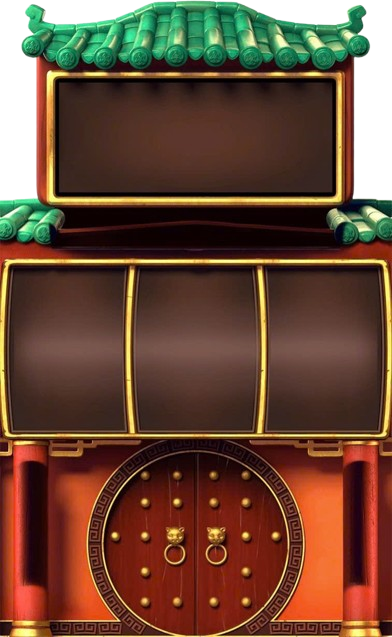
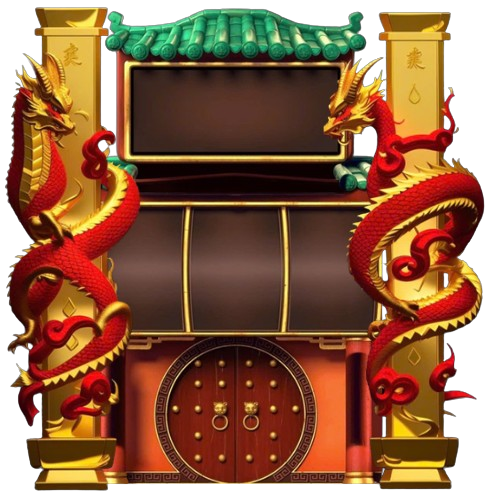
update css

diff --git a/user/pages/slot-machine/index.tsx b/user/pages/slot-machine/index.tsx
@@ -252,17 +252,17 @@ export default function SlotMachinePage() {
 
         .slot-bg-content {
           position: absolute;
-          top: 20%;
+          top: 15%;
           left: 50%;
           transform: translateX(-50%);
-          width: 58%;
+          width: 100%;
           z-index: 2;
         }
 
         /* Machine body */
         .slot-machine-body {
           position: relative;
-          background: url("/thanmay.jpg") center top / 100% auto no-repeat;
+background: url("/thanmay.jpg") center 50px / 100% auto no-repeat;
           padding: 0;
           border: none;
           box-shadow: none;
@@ -273,8 +273,8 @@ export default function SlotMachinePage() {
         .slot-jackpot-header {
           position: absolute;
           top: 18%;
-          left: 16%;
-          right: 16%;
+          left: 20%;
+          right: 23%;
           text-align: center;
           padding: 0;
           z-index: 3;
@@ -299,15 +299,15 @@ export default function SlotMachinePage() {
         /* Reels area - nằm trong 3 ô giữa */
         .slot-reels-frame {
           position: absolute;
-          top: 45%;
-          left: 0%;
-          right: 0%;
-          height: 20%;
+          top: 39%;
+          left: 22%;
+          right: 22%;
+          height: 16%;
           background: transparent;
           border-radius: 0;
-          padding: 2% 3%;
+          padding: 0;
           display: flex;
-          gap: 3%;
+          gap: 5%;
           justify-content: center;
           align-items: stretch;
           border: none;
@@ -377,6 +377,7 @@ export default function SlotMachinePage() {
 
         /* Lever */
         .slot-lever-wrap {
+          display: none;
           position: absolute;
           right: -10px;
           top: 40%;
@@ -442,7 +443,7 @@ export default function SlotMachinePage() {
         /* Bottom panel - vùng cửa tròn */
         .slot-bottom-panel {
           position: absolute;
-          bottom: 12%;
+          bottom: 16%; /* Dời lên trên cao hơn */
           left: 20%;
           right: 20%;
           text-align: center;
@@ -450,26 +451,24 @@ export default function SlotMachinePage() {
         }
 
         .slot-play-btn {
-          width: 100%;
-          padding: 10px 16px;
-          background: linear-gradient(180deg, #ff4444 0%, #cc0000 100%);
+          width: 85%;
+          padding: 16px 16px;
+          background: url("/bgnutquayso.png") center / 100% 100% no-repeat transparent;
           color: white;
-          font-size: 14px;
+          font-size: 16px;
           font-weight: 900;
           border: none;
           border-radius: 10px;
           cursor: pointer;
           text-transform: uppercase;
           letter-spacing: 2px;
-          box-shadow:
-            0 4px 15px rgba(204, 0, 0, 0.5),
-            inset 0 2px 4px rgba(255, 255, 255, 0.2);
+          box-shadow: none;
           transition: all 0.2s;
         }
 
         .slot-play-btn:hover:not(:disabled) {
-          transform: translateY(-2px);
-          box-shadow: 0 6px 20px rgba(204, 0, 0, 0.7);
+          transform: scale(1.05);
+          filter: drop-shadow(0 4px 8px rgba(0,0,0,0.3));
         }
 
         .slot-play-btn:disabled {
@@ -486,12 +485,27 @@ export default function SlotMachinePage() {
           }
         }
 
-        .slot-turns {
-          margin-top: 12px;
-          color: #ffd700;
+        .slot-turns-bg {
+          margin-top: 16px;
+          width: 300px;
+          height: 75px;
+          background: url("/bghienthiluotchoi.png") center / 100% 100% no-repeat;
+          display: inline-block;
+          position: relative;
+          left: -25px; /* Kéo khung qua trái 10px */
+          top: -15px;
+        }
+
+        .slot-turns-text {
+          position: absolute;
+          top: 55%; /* Chỉnh lên xuống bằng % hoặc px */
+          left: 50%; /* Chỉnh trái phải */
+          transform: translate(-50%, -50%);
+          white-space: nowrap;
+          color: #fff;
           font-size: 14px;
-          font-weight: 600;
-          text-shadow: 0 0 6px rgba(255, 215, 0, 0.4);
+          font-weight: 900;
+          text-shadow: 0 0 4px rgba(0, 0, 0, 0.6);
         }
 
         /* Decorative lights - ẩn vì hình đã trang trí */
@@ -662,34 +676,47 @@ export default function SlotMachinePage() {
         }
 
         /* Jackpot Info Button */
-        .slot-info-btn {
-          display: flex;
-          align-items: center;
-          justify-content: center;
-          gap: 4px;
-          margin: 12px auto 0;
-          padding: 8px 16px;
-          background: linear-gradient(180deg, #ffd700, #daa520);
-          border: 1.5px solid #b8860b;
-          border-radius: 20px;
-          color: #1a0a2e;
-          font-size: 12px;
-          font-weight: 700;
+        .slot-info-btn-bg {
+          position: absolute;
+          bottom: -10px; /* Điều chỉnh độ cao từ đáy lên */
+          right: 20px; /* Điều chỉnh khoảng cách từ lề phải qua */
+          z-index: 10;
+          width: 170px; /* Kích thước ngang khung nền */
+          height: 150px; /* Kích thước dọc khung nền */
+          background: url("/thongtin.png") center / 100% 100% no-repeat transparent;
+          border: none;
           cursor: pointer;
           transition: all 0.3s ease;
-          text-shadow: none;
           animation: infoPulse 2s ease-in-out infinite;
+        }
+
+        .slot-info-btn-text {
+          position: absolute;
+          top: 70%; /* Dời dọc chữ */
+          left: 50%; /* Dời ngang chữ */
+          transform: translate(-50%, -50%);
+          display: flex;
+          align-items: center;
+          gap: 4px;
+          color: #fff;
+          font-size: 12px;
+          font-weight: 700;
           white-space: nowrap;
+          pointer-events: none;
+          text-shadow: 0 0 2px rgba(0,0,0,0.8);
         }
         .slot-info-btn:hover {
           background: linear-gradient(180deg, #ffe44d, #ffd700);
           transform: scale(1.05);
           box-shadow: 0 0 16px rgba(255, 215, 0, 0.6);
         }
-        @keyframes infoPulse {
-          0%, 100% { box-shadow: 0 0 4px rgba(255, 215, 0, 0.3); }
-          50% { box-shadow: 0 0 14px rgba(255, 215, 0, 0.6); }
+        .slot-info-btn-bg:hover {
+          transform: scale(1.12);
         }
+        .slot-info-btn-bg:hover .slot-info-btn-text {
+          font-size: 14px;
+        }
+
 
         /* Jackpot Info Modal */
         .jackpot-info-overlay {
@@ -825,13 +852,33 @@ export default function SlotMachinePage() {
           border-color: rgba(255, 215, 0, 0.4);
         }
 
+        /* Tên sự kiện - desktop */
+        .slot-event-name {
+          margin-top: 60px;
+        }
+
         @media (max-width: 480px) {
+          /* Nút thông tin giải thưởng - cũ */
           .slot-info-btn {
             padding: 6px 12px;
             font-size: 10px;
             border-radius: 16px;
             margin: 8px auto 0;
           }
+
+          /* Nút thông tin - đưa lên đầu, giữa màn hình */
+          .slot-info-btn-bg {
+            bottom: auto;
+            right: auto;
+            top: -70px;
+            left: 50%;
+            transform: translateX(-50%);
+          }
+          .slot-info-btn-bg:hover {
+            transform: translateX(-50%) scale(1.12);
+          }
+
+          /* Modal jackpot info */
           .jackpot-info-popup {
             padding: 20px 16px;
           }
@@ -845,6 +892,36 @@ export default function SlotMachinePage() {
           .jackpot-info-symbol-text {
             font-size: 16px;
             line-height: 22px;
+          }
+
+          /* Nút QUAY SỐ - phóng to trên mobile */
+          .slot-play-btn {
+            width: 55%;
+            padding: 10px 16px;
+            font-size: 18px;
+            letter-spacing: 3px;
+          }
+
+          /* Panel chứa nút */
+          .slot-bottom-panel {
+            left: 10%;
+            right: 10%;
+            bottom: calc(14% + 30px);
+          }
+
+          /* Khung lượt chơi */
+          .slot-turns-bg {
+            width: 280px;
+            height: 70px;
+            left: -5px;
+          }
+          .slot-turns-text {
+            font-size: 13px;
+          }
+
+          /* Tên sự kiện - kéo lên gần nút quay số hơn */
+          .slot-event-name {
+            margin-top: -50px;
           }
         }
       `}</style>
@@ -882,10 +959,12 @@ export default function SlotMachinePage() {
                     {/* Info Button */}
                     {config.jackpotCombos && config.jackpotCombos.length > 0 && (
                       <button
-                        className="slot-info-btn"
+                        className="slot-info-btn-bg"
                         onClick={() => setShowJackpotInfo(true)}
                       >
-                        🏆 Thông tin giải thưởng
+                        <span className="slot-info-btn-text">
+                          GIẢI THƯỞNG
+                        </span>
                       </button>
                     )}
 
@@ -957,26 +1036,23 @@ export default function SlotMachinePage() {
                         onClick={handlePlay}
                         disabled={spinning || !config}
                       >
-                        {spinning ? "Đang quay..." : "🎰 QUAY SỐ"}
+                        {spinning ? "Đang quay..." : "QUAY SỐ"}
                       </button>
 
                       {turns && (
-                        <p className="slot-turns">
-                          Lượt chơi: {turns.remainingTurns} / {turns.totalTurns}
-                        </p>
+                        <div className="slot-turns-bg">
+                          <span className="slot-turns-text">
+                            Lượt chơi: {turns.remainingTurns} / {turns.totalTurns}
+                          </span>
+                        </div>
                       )}
                     </div>
 
-                    {/* Coins */}
-                    <div className="slot-coins">
-                      {Array.from({ length: 7 }).map((_, i) => (
-                        <div key={i} className="slot-coin" />
-                      ))}
-                    </div>
+
                   </div>
 
                   {/* Event info */}
-                  <div style={{ textAlign: "center", marginTop: 50, color: "#ffd700", fontSize: 14, opacity: 0.7 }}>
+                  <div className="slot-event-name" style={{ textAlign: "center", color: "#ffd700", fontSize: 14, opacity: 0.7 }}>
                     <p>{config.name}</p>
                   </div>
                 </>
